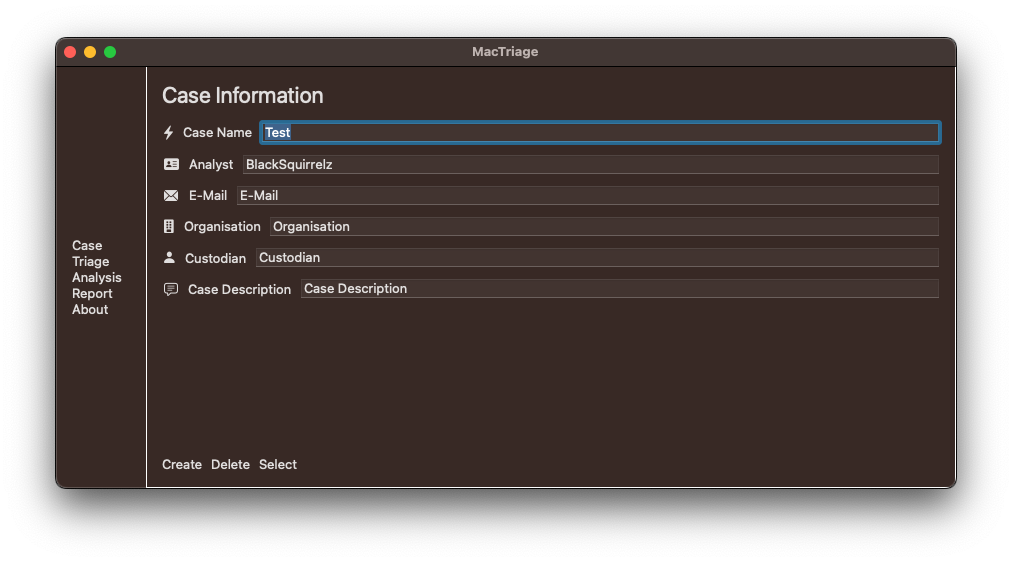
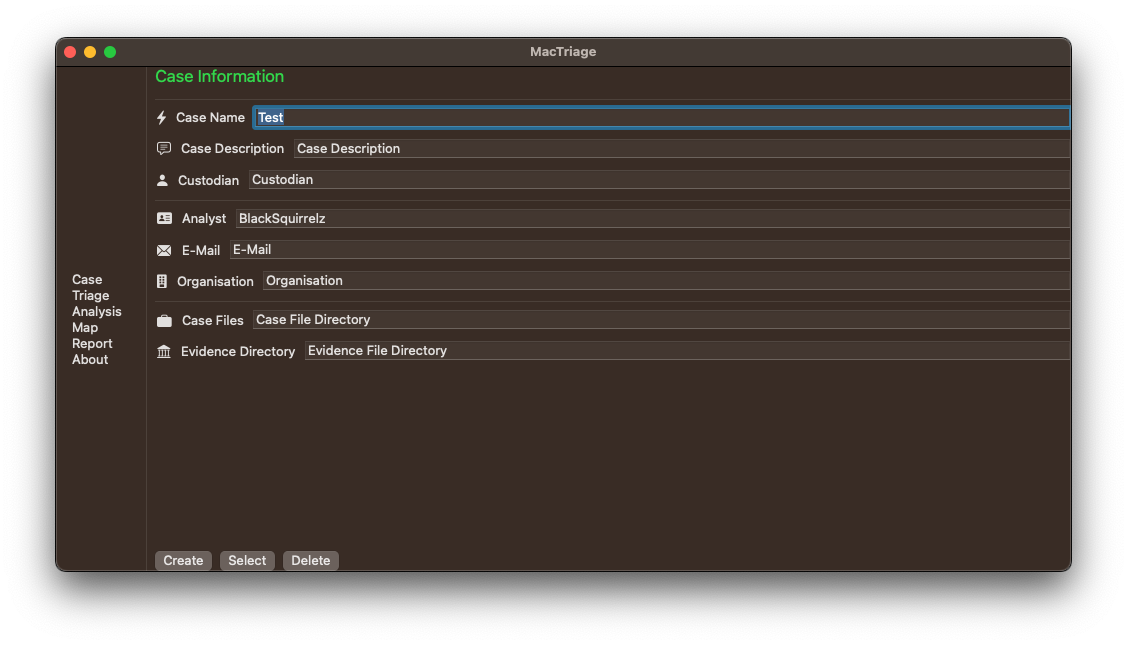
Updated UI and Case Directory

Changed region(s): [[0.0306, 0.0302, 0.9496, 0.9377]]

diff --git a/MacTriage/MacTriage/Views/CaseView/CaseInformationView.swift b/MacTriage/MacTriage/Views/CaseView/CaseInformationView.swift
@@ -1,0 +1,111 @@
+//
+//  CaseInformationView.swift
+//  MacTriage
+//
+//  Created by BlackSquirrelz on 12.02.23.
+//
+
+import SwiftUI
+
+struct CaseInformationView: View {
+    @State private var case_name: String = "Test"
+    @State private var analyst_name: String = "BlackSquirrelz"
+    @State private var analyst_email: String = "E-Mail"
+    @State private var organisation: String = "Organisation"
+    @State private var custodian: String = "Custodian"
+    @State private var description: String = "Case Description"
+    @State private var createTempDir = false
+    @State private var caseFiles: String = "Case File Directory"
+    @State private var evidenceFiles: String = "Evidence File Directory"
+    
+    
+    
+    var body: some View {
+        VStack(alignment: .leading) {
+            Text("Case Information")
+                .font(.title2)
+                .foregroundColor(.green)
+            // Title of the case
+            Divider()
+            HStack {
+                VStack{
+                    HStack{
+                        Label("Case Name", systemImage: "bolt.fill")
+                        Spacer()
+                        TextField("case_name", text: $case_name)
+                    }
+                    // User should be able to describe the case in a few words
+                    HStack {
+                        Label("Case Description", systemImage: "text.bubble")
+                        Spacer()
+                        TextField("description", text: $description)
+                    }
+                    // Name of the Custodian
+                    HStack {
+                        Label("Custodian", systemImage: "person.fill")
+                        Spacer()
+                        TextField("custodian", text: $custodian)
+                        
+                    }
+                    
+                }
+            }
+            Divider()
+            // Analyst responsible for the case
+            HStack{
+                VStack {
+                    HStack {
+                        Label("Analyst", systemImage: "person.text.rectangle.fill")
+                        Spacer()
+                        TextField("analyst", text: $analyst_name)
+                        
+                    }
+                    
+                    // Contact Details of the Analyst
+                    HStack {
+                        Label("E-Mail", systemImage: "envelope.fill")
+                        Spacer()
+                        TextField("email", text: $analyst_email)
+                    }
+                    
+                    // Organisation that did the Analysis
+                    HStack {
+                        Label("Organisation", systemImage: "building.fill")
+                        Spacer()
+                        TextField("organisation", text: $organisation)
+                    }
+                }
+            }
+            Divider()
+            HStack {
+                VStack{
+                    // Case Files
+                    HStack {
+                        Label("Case Files", systemImage: "case.fill")
+                        Spacer()
+                        TextField("case_files", text: $caseFiles)
+                    }
+                    // Evidence Files
+                    HStack {
+                        Label("Evidence Directory", systemImage: "building.columns.fill")
+                        Spacer()
+                        TextField("evidence_directory", text: $evidenceFiles)
+                    }
+                }
+            }
+            Spacer()
+        
+            HStack {
+                Button("Create", action: CaseManagement.CreateCaseDirectory)
+                Button("Select", action: CaseManagement.SelectCaseDirectory)
+                Button("Delete", action: CaseManagement.DeleteCaseDirectory)
+            }
+        }
+    }
+}
+
+struct CaseInformationView_Previews: PreviewProvider {
+    static var previews: some View {
+        CaseInformationView()
+    }
+}

diff --git a/MacTriage/MacTriage/CaseManagement.swift b/MacTriage/MacTriage/CaseManagement.swift
@@ -1,0 +1,49 @@
+//
+//  CaseManagement.swift
+//  MacTriage
+//
+//  Created by BlackSquirrelz on 12.02.23.
+//
+
+import Foundation
+
+struct CaseManagement  {
+    
+    // Let the user choose a
+    static let currentDirectory = FileManager.default.currentDirectoryPath
+    //static let TemporaryCaseDirectory = FileManager.default.temporaryDirectory.appending(path: "\(Date().ISO8601Format().replacingOccurrences(of: ":", with: "_"))-MacTriage")
+    static let CaseDirectory = FileManager.default.homeDirectoryForCurrentUser.appending(path: "\(Date().ISO8601Format().replacingOccurrences(of: ":", with: "_"))-MacTriage")
+        static let caseFile = CaseDirectory.appending(path: "case.json")
+    static let caseDB = CaseDirectory.appending(path: "case.db")
+    static let fm = FileManager.default
+    
+    static func CreateCaseDirectory() {
+        do {
+            try fm.createDirectory(at: CaseDirectory, withIntermediateDirectories: true, attributes: nil)
+            print("Case created @ \(CaseDirectory.relativePath)")
+            CreateDataDirectory()
+        } catch {
+            print(error)
+        }
+    }
+    
+    static func CreateDataDirectory() {
+        var localCaseDir: URL
+        
+        localCaseDir = CaseDirectory
+        do {
+            try fm.createDirectory(at: localCaseDir, withIntermediateDirectories: true, attributes: nil)
+            print("Created Data Directory @ \(localCaseDir)")
+        } catch {
+            print(error)
+        }
+    }
+    
+    static func SelectCaseDirectory() {
+        print("Case Selected")
+    }
+    static func DeleteCaseDirectory() {
+        print("Case Deleted... Not really but yeah.")
+    }
+}
+

diff --git a/MacTriage/MacTriage/Views/helpers/SplashView.swift b/MacTriage/MacTriage/Views/helpers/SplashView.swift
@@ -1,0 +1,37 @@
+//
+//  SplashView.swift
+//  MacTriage
+//
+//  Created by BlackSquirrelz on 12.02.23.
+//
+
+import SwiftUI
+
+struct SplashView: View {
+
+    @State var isActive: Bool = false
+
+
+    var body: some View {
+        ZStack {
+            if self.isActive {
+                ContentView()
+            } else {
+                Text("Loading...")
+            }
+        }
+        .onAppear {
+            DispatchQueue.main.asyncAfter(deadline: .now() + 10) {
+                withAnimation {
+                    self.isActive = true
+                }
+            }
+        }
+    }
+}
+
+struct SplashView_Previews: PreviewProvider {
+    static var previews: some View {
+        SplashView()
+    }
+}

diff --git a/MacTriage/MacTriage/Views/Map/MapView.swift b/MacTriage/MacTriage/Views/Map/MapView.swift
@@ -1,0 +1,24 @@
+//
+//  MapView.swift
+//  MacTriage
+//
+//  Created by BlackSquirrelz on 12.02.23.
+//
+
+import SwiftUI
+import MapKit
+
+struct MapView: View {
+    @State private var region = MKCoordinateRegion(
+        center: CLLocationCoordinate2D(latitude: 0, longitude: 0), span: MKCoordinateSpan(latitudeDelta: 0.2, longitudeDelta: 0.2))
+            
+    var body: some View {
+        Map(coordinateRegion: $region)
+        }
+}
+
+struct MapView_Previews: PreviewProvider {
+    static var previews: some View {
+        MapView()
+    }
+}

diff --git a/MacTriage/MacTriage/Views/MenuItemRow.swift b/MacTriage/MacTriage/Views/MenuItemRow.swift
@@ -1,0 +1,23 @@
+//
+//  MenuItem.swift
+//  MacTriage
+//
+//  Created by BlackSquirrelz on 12.02.23.
+//
+
+import SwiftUI
+
+struct MenuItemRow: View {
+    
+    let menuItems = ["Case", "Triage", "Analysis", "Map", "Report","About"]
+    
+    var body: some View {
+        Text(/*@START_MENU_TOKEN@*/"Hello, World!"/*@END_MENU_TOKEN@*/)
+    }
+}
+
+struct MenuItemRow_Previews: PreviewProvider {
+    static var previews: some View {
+        MenuItemRow()
+    }
+}

diff --git a/MacTriage/MacTriage/Views/NavigationView.swift b/MacTriage/MacTriage/Views/NavigationView.swift
@@ -8,11 +8,14 @@
 import SwiftUI
 
 struct NavigationView: View {
+    
     var body: some View {
+        
         VStack(alignment: .leading){
             Text("Case")
             Text("Triage")
             Text("Analysis")
+            Text("Map")
             Text("Report")
             Text("About")
         }

diff --git a/MacTriage/MacTriage/Views/ContentView.swift b/MacTriage/MacTriage/Views/ContentView.swift
@@ -10,8 +10,9 @@ import SwiftUI
 struct ContentView: View {
     var body: some View {
         HStack {
-                NavigationView()
-                CaseInformationView()
+            NavigationView()
+            Divider()
+            CaseInformationView()
         }
     }
 }
